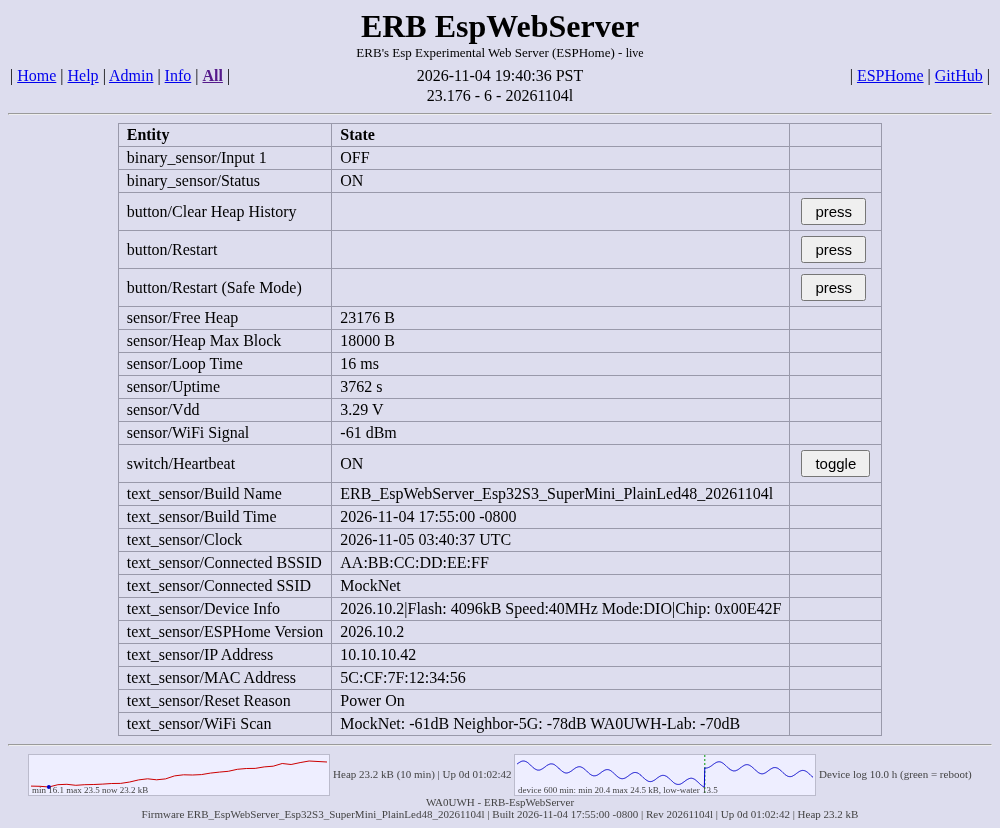
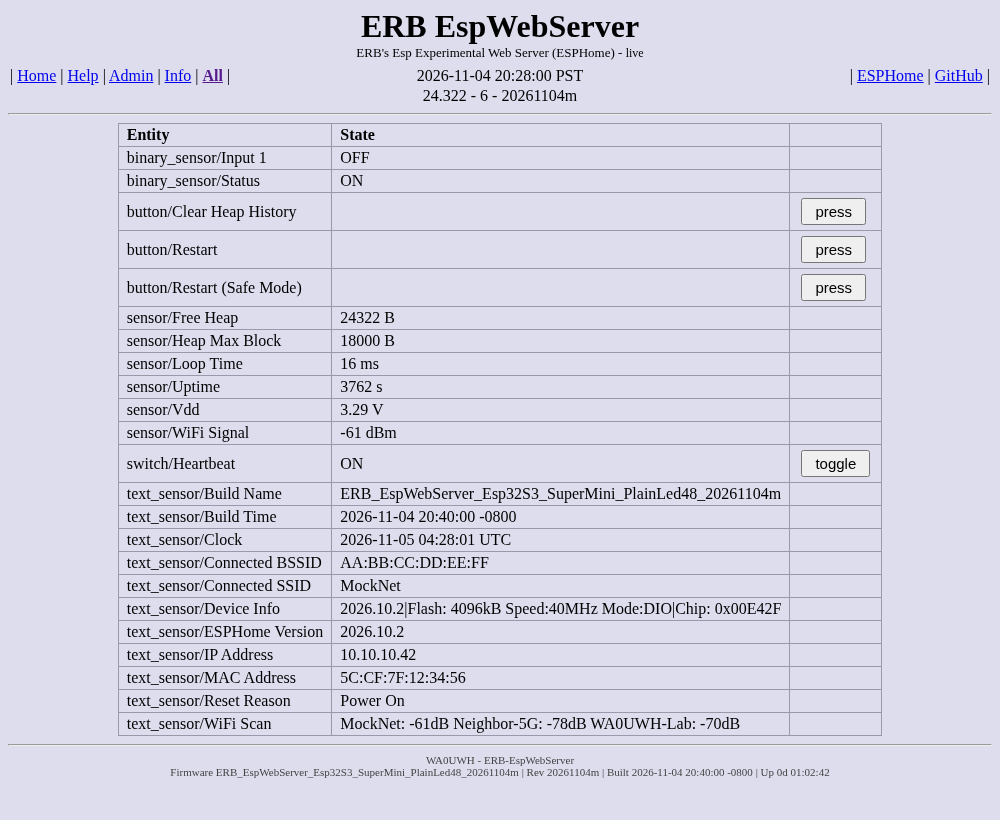
ESPHome Rev 20261104m: fix Build Name/Time on page, trim bottom to one dev line

Changed region(s): [[0.031, 0.0305, 0.992, 1.0], [0.031, 0.9451, 0.124, 0.9756]]

diff --git a/esphome/www/erb_ui.js b/esphome/www/erb_ui.js
@@ -1,11 +1,12 @@
 // Authors: Grok and Eldon R. Brown - WA0UWH
-// Rev: 20261104l
+// Rev: 20261104m
 // ERB_UI - custom multi-page UI for the standalone ESPHome ERB-EspWebServer.
 // Recreates the 2015 Home / Help / Admin / Info pages + Navigator, from flash, no internet.
 // Data: /events SSE ("state" events, id = "<domain>/<Entity Name>"); actions: REST POST.
 (function () {
-  var Hist_Min = 30, Hist = [], Spark = [], LongH = [], S = {}, Page = 'home', Hits = 0;
-  var Rev = '20261104l';
+  var Hist_Min = 30, Hist = [], S = {}, Page = 'home', Hits = 0;
+  var Rev = '20261104m';
+  var Cmt = '';   // esphome comment (= Build_Name) from the /events ping config: fallback if Build Name state is empty
   var css = 'body{background:#ddddee;font-family:Times New Roman,serif;margin:8px;color:#000}' +
     'h1{text-align:center;margin:4px}h1 small{font-size:13px;font-weight:normal;display:block}' +
     '.Nav{width:100%;border-collapse:collapse}.Nav td{padding:2px}.Nav a{color:#00e;cursor:pointer;text-decoration:underline}' +
@@ -17,6 +18,7 @@
 
   function $(i) { return document.getElementById(i); }
   function V(n) { var e = S[n]; return e ? e.state : '--'; }
+  function BN() { var b = V('text_sensor/Build Name'); return (b && b != '--') ? b : Cmt; }   // '' if unknown
   function N(n) { var e = S[n]; return e && typeof e.value === 'number' ? e.value : NaN; }
   function Esc(t) { return String(t).replace(/[&<>"]/g, function (c) { return { '&': '&amp;', '<': '&lt;', '>': '&gt;', '"': '&quot;' }[c]; }); }
   function Post(url) { return fetch(url, { method: 'POST' }); }
@@ -102,7 +104,7 @@
         '<button data-act="button/Restart (Safe Mode)/press" data-q="Reboot into Safe Mode (OTA only)?">Safe Mode</button>' +
         (S['button/Clear Heap History'] ? '<button data-act="button/Clear Heap History/press" data-q="Clear the heap history saved on the device?">Clear heap history</button>' : '') + '</div>' +
         '<pre><b>WiFi Scan</b>\n<span id="v_text_sensor_WiFi_Scan">' + Esc(V('text_sensor/WiFi Scan')) + '</span></pre>' +
-        '<form id="otaF"><b>Firmware update</b> (.ota.bin): <input type="file" id="otaFile" accept=".bin"> <button type="submit">Upload</button><br>Chosen: <b id="otaName">none</b> <span id="otaMsg"></span><br>Running: <b>' + Esc(V('text_sensor/Build Name')) + '</b></form>' +
+        '<form id="otaF"><b>Firmware update</b> (.ota.bin): <input type="file" id="otaFile" accept=".bin"> <button type="submit">Upload</button><br>Chosen: <b id="otaName">none</b> <span id="otaMsg"></span><br>Running: <b>' + Esc(BN() || '--') + '</b></form>' +
         '<p>To change networks: if the device cannot join its WiFi it starts hotspot <b>ERB-EspWebServer-Setup</b>. Join it and a captive portal page lets you pick a new network.</p>';
     },
     help: function () {
@@ -134,14 +136,12 @@
   function Refresh() {
     var fh = N('sensor/Free Heap') / 1000;
     $('navStat').textContent = (isNaN(fh) ? '--' : fh.toFixed(3)) + ' - ' + Hits + ' - ' + Rev;
-    var bn = V('text_sensor/Build Name'); bn = (bn && bn != '--') ? bn : '';
+    var bn = BN();
     if ($('ftBuild')) $('ftBuild').textContent = bn || '--';
     if ($('homeFw')) $('homeFw').textContent = bn ? bn + '.factory.bin / .ota.bin' : '--';
     var bt = V('text_sensor/Build Time'), up = N('sensor/Uptime');
     if ($('ftTime')) $('ftTime').textContent = (bt && bt != '--') ? bt : '--';
     if ($('ftUp')) $('ftUp').textContent = isNaN(up) ? '--' : (function (t) { t = Math.floor(t); function P(n) { return (n < 10 ? '0' : '') + n; } return Math.floor(t / 86400) + 'd ' + P(Math.floor(t / 3600) % 24) + ':' + P(Math.floor(t / 60) % 60) + ':' + P(t % 60); })(up);
-    if ($('ftHeap')) $('ftHeap').textContent = isNaN(fh) ? '--' : fh.toFixed(1) + ' kB';
-    DrawSpark();
     if ($('infoFile')) $('infoFile').textContent = bn ? bn + '.ota.bin' : '--';
     SetInst('gHeap', fh, isNaN(fh) ? '--' : fh.toFixed(1));
     var t = IsS3() ? 'sensor/Chip Temp' : 'sensor/Vdd'; SetInst('gVdd', N(t), V(t));
@@ -161,34 +161,6 @@
       hour: '2-digit', minute: '2-digit', second: '2-digit', timeZoneName: 'short' }).formatToParts(d).forEach(function (p) { o[p.type] = p.value; });
     o.hour = o.hour == '24' ? '00' : o.hour; return o;
   }
-  function DrawSpark() {
-    var g = $('spark'), t = $('spkTxt'); if (!g) return;
-    var up = $('ftUp') ? $('ftUp').textContent : '--';
-    if (Spark.length < 2) { g.innerHTML = ''; t.textContent = 'Heap -- | Up ' + up; return; }
-    var mn = Math.min.apply(null, Spark), mx = Math.max.apply(null, Spark), cur = Spark[Spark.length - 1], r = (mx - mn) || 1, W = 300, H = 40, n = Spark.length, mi = Spark.indexOf(mn);
-    function X(i) { return (i * (W - 4) / (n - 1) + 2).toFixed(1); } function Y(v) { return (H - 10 - (v - mn) / r * (H - 14) + 2).toFixed(1); }
-    g.innerHTML = '<polyline fill="none" stroke="#c00" stroke-width="1" points="' + Spark.map(function (v, i) { return X(i) + ',' + Y(v); }).join(' ') + '"/>' +
-      '<circle cx="' + X(mi) + '" cy="' + Y(mn) + '" r="2" fill="#00c"/>' +
-      '<text x="3" y="38" font-size="9" fill="#444">min ' + mn.toFixed(1) + ' max ' + mx.toFixed(1) + ' now ' + cur.toFixed(1) + ' kB</text>';
-    t.textContent = 'Heap ' + cur.toFixed(1) + ' kB (10 min) | Up ' + up;
-  }
-  function LoadLong() {   // on-device history (NVS ring), GET /heap_history.csv: stamp,free,minfree,boot
-    fetch('/heap_history.csv', { cache: 'no-store' }).then(function (r) { return r.ok ? r.text() : ''; }).then(function (t) {
-      LongH = t.split('\n').slice(1).filter(Boolean).map(function (l) { var a = l.split(','); return [+a[0], a[1] / 1000, a[2] / 1000, +a[3]]; });
-      DrawLong();
-    }).catch(function () { LongH = []; DrawLong(); });
-  }
-  function DrawLong() {
-    var g = $('sparkL'), t = $('spkLTxt'); if (!g) return;
-    if (LongH.length < 2) { g.innerHTML = '<text x="3" y="24" font-size="9" fill="#444">device history: ' + (LongH.length ? '1 sample' : 'none yet') + '</text>'; t.textContent = ''; return; }
-    var v = LongH.map(function (e) { return e[1]; }), mn = Math.min.apply(null, v), mx = Math.max.apply(null, v), r = (mx - mn) || 1, W = 300, H = 40, n = v.length;
-    var lo = Math.min.apply(null, LongH.map(function (e) { return e[2]; }));
-    function X(i) { return (i * (W - 4) / (n - 1) + 2).toFixed(1); } function Y(x) { return (H - 10 - (x - mn) / r * (H - 14) + 2).toFixed(1); }
-    var bm = ''; for (var i = 1; i < n; i++) if (LongH[i][3] != LongH[i - 1][3]) bm += '<line x1="' + X(i) + '" y1="0" x2="' + X(i) + '" y2="' + H + '" stroke="#090" stroke-width="1" stroke-dasharray="2,2"/>';
-    g.innerHTML = bm + '<polyline fill="none" stroke="#00c" stroke-width="1" points="' + v.map(function (x, i) { return X(i) + ',' + Y(x); }).join(' ') + '"/>' +
-      '<text x="3" y="38" font-size="9" fill="#444">device ' + n + ' min: min ' + mn.toFixed(1) + ' max ' + mx.toFixed(1) + ' kB, low-water ' + lo.toFixed(1) + '</text>';
-    t.textContent = 'Device log ' + (n / 60).toFixed(1) + ' h (green = reboot)';
-  }
   function Tick() {
     var p = Pac(new Date()), h = +p.hour, m = +p.minute, sec = +p.second;
     var txt = p.year + '-' + p.month + '-' + p.day + ' ' + p.hour + ':' + p.minute + ':' + p.second + ' ' + p.timeZoneName;
@@ -204,12 +176,12 @@
     if (t.dataset.pg) return Show(t.dataset.pg);
     if (t.dataset.led) return Post('/switch/' + Enc(t.dataset.led) + '/toggle');
     if (t.dataset.q && !confirm(t.dataset.q)) return;
-    Post('/' + Enc(t.dataset.act)).then(function () { if (t.dataset.act.indexOf('Clear Heap') >= 0) setTimeout(LoadLong, 1500); });
+    Post('/' + Enc(t.dataset.act));
   });
   document.addEventListener('submit', function (ev) {
     if (ev.target.id != 'otaF') return; ev.preventDefault();
     var f = $('otaFile').files[0]; if (!f) return;
-    var run = V('text_sensor/Build Name'), want = Board(f.name), have = Board(run);
+    var run = BN() || '--', want = Board(f.name), have = Board(run);
     if (run != '--' && want != have && !confirm('WARNING: board/variant mismatch!\n  File:    ' + want + '\n  Running: ' + have + '\nUpload anyway?')) return;
     if (!confirm('Upload ' + f.name + ' and reboot?')) return;
     var fd = new FormData(); fd.append('update', f, f.name); $('otaMsg').textContent = 'uploading...';
@@ -225,10 +197,10 @@
   function OnState(ev) {
     var d; try { d = JSON.parse(ev.data); } catch (e) { return; }
     var k = d.name_id || d.id; if (!k) return;
+    if (k == 'text_sensor/Build Name' && !d.state && Cmt) d.state = Cmt;   // device sent '' -> use ping comment
     var isNew = !S[k]; S[k] = d;
     if (k == 'sensor/Free Heap' && typeof d.value == 'number') {
       Hist.push([Date.now(), d.value]);
-      Spark.push(d.value / 1000); if (Spark.length > 300) Spark.shift();   // ~10 min rolling, browser memory only
       while (Hist.length && Hist[0][0] < Date.now() - 60 * 60000) Hist.shift();
     }
     if (isNew && (Page == 'all' || Page == 'info' || (Page == 'home' && (k == 'sensor/Chip Temp' || k.indexOf('switch/') == 0)))) Show(Page); else Refresh();
@@ -239,15 +211,16 @@
     es.addEventListener('state_detail_all', OnState);
     es.addEventListener('ping', function (ev) {
       $('Conn').textContent = 'live';
-      try { var c = JSON.parse(ev.data); if (c.title) { document.title = c.title; $('erbTitle').firstChild.textContent = c.title; } } catch (e) {}
+      try { var c = JSON.parse(ev.data); if (c.title) { document.title = c.title; $('erbTitle').firstChild.textContent = c.title; }
+        if (c.comment && /^ERB_/.test(c.comment)) { Cmt = c.comment; var e = S['text_sensor/Build Name']; if (e && !e.state) e.state = Cmt; Refresh(); } } catch (e) {}
     });
     es.onerror = function () { $('Conn').textContent = 'reconnecting...'; };
   }
   function Start() {
     document.body.innerHTML = '<h1 id="erbTitle">ERB EspWebServer<small>ERB\'s Esp Experimental Web Server (ESPHome) - <span id="Conn">connecting</span></small></h1>' +
-      '<div id="erbNav"></div><hr><div id="erbPage"></div><hr><div class="Ctr" style="font-size:11px;color:#444"><svg id="spark" width="300" height="40" style="vertical-align:middle;background:#eef;border:1px solid #bbc"></svg> <span id="spkTxt">--</span> <svg id="sparkL" width="300" height="40" style="vertical-align:middle;background:#eef;border:1px solid #bbc"></svg> <span id="spkLTxt"></span></div><div class="Ctr" style="font-size:11px;color:#444">WA0UWH - ERB-EspWebServer<br>Firmware <span id="ftBuild">--</span> | Built <span id="ftTime">--</span> | Rev ' + Rev + ' | Up <span id="ftUp">--</span> | Heap <span id="ftHeap">--</span></div>';
+      '<div id="erbNav"></div><hr><div id="erbPage"></div><hr><div class="Ctr" style="font-size:11px;color:#444">WA0UWH - ERB-EspWebServer<br>Firmware <span id="ftBuild">--</span> | Rev ' + Rev + ' | Built <span id="ftTime">--</span> | Up <span id="ftUp">--</span></div>';
     S['x/rev'] = { state: Rev };
-    Show('home'); Connect(); LoadLong(); setInterval(LoadLong, 300000); setInterval(Tick, 1000); setInterval(DrawLine, 10000);
+    Show('home'); Connect(); setInterval(Tick, 1000); setInterval(DrawLine, 10000);
   }
   if (document.readyState == 'loading') document.addEventListener('DOMContentLoaded', Start); else Start();
 })();

diff --git a/esphome/mock/Mock_Server.js b/esphome/mock/Mock_Server.js
@@ -1,14 +1,18 @@
 // Authors: Grok and Eldon R. Brown - WA0UWH
-// Rev: 20261104l
+// Rev: 20261104m
 // Mock_Server - fakes the ESPHome v3 web_server (index, /0.js, /events SSE, POST actions)
 // (basic auth guest:grest only when MOCK_AUTH=1) so www/erb_ui.js can be tested in a browser. Usage: node Mock_Server.js [port]
 const http = require('http'), fs = require('fs'), path = require('path');
 const Port = +process.argv[2] || 8099;
 const JS = path.join(__dirname, '..', 'www', 'erb_ui.js');
+// 20261104m: match the real device. Build Name/Time are ''-state unless the firmware publishes them
+// (rev l and older: never published -> MOCK_BUILD_TS=0). ping carries esphome comment = Build_Name (rev m+; MOCK_COMMENT=0 = rev l).
+const BuildName = process.env.MOCK_NO_LEDS ? 'ERB_EspWebServer_Esp32S3_SuperMini_PlainLed48_20261104m' : 'ERB_EspWebServer_Esp8266_NodeMcu_20261104m';
+const Pub = process.env.MOCK_BUILD_TS !== '0', Cmt = process.env.MOCK_COMMENT !== '0' ? BuildName : '';
 const S = {
   'sensor/Free Heap': [23456, '23456 B'], 'sensor/Vdd': [3.29, '3.29 V'], 'sensor/WiFi Signal': [-61, '-61 dBm'],
   'sensor/Uptime': [3725, '3725 s'], 'sensor/Heap Max Block': [18000, '18000 B'], 'sensor/Loop Time': [16, '16 ms'],
-  'text_sensor/ESPHome Version': [null, '2026.10.2'], 'text_sensor/Build Name': [null, process.env.MOCK_NO_LEDS ? 'ERB_EspWebServer_Esp32S3_SuperMini_PlainLed48_20261104l' : 'ERB_EspWebServer_Esp8266_NodeMcu_20261104l'], 'text_sensor/Build Time': [null, '2026-11-04 17:55:00 -0800'], 'text_sensor/Reset Reason': [null, 'Power On'],
+  'text_sensor/ESPHome Version': [null, '2026.10.2'], 'text_sensor/Build Name': [null, Pub ? BuildName : ''], 'text_sensor/Build Time': [null, Pub ? '2026-11-04 20:40:00 -0800' : ''], 'text_sensor/Reset Reason': [null, 'Power On'],
   'text_sensor/Device Info': [null, '2026.10.2|Flash: 4096kB Speed:40MHz Mode:DIO|Chip: 0x00E42F'],
   'text_sensor/IP Address': [null, '10.10.10.42'], 'text_sensor/Connected SSID': [null, 'MockNet'],
   'text_sensor/Connected BSSID': [null, 'AA:BB:CC:DD:EE:FF'], 'text_sensor/MAC Address': [null, '5C:CF:7F:12:34:56'],
@@ -48,7 +52,7 @@ http.createServer((q, r) => {
   
   if (u === '/events') {
     r.writeHead(200, { 'Content-Type': 'text/event-stream', 'Cache-Control': 'no-cache' });
-    r.write(`event: ping\ndata: ${JSON.stringify({ title: 'ERB EspWebServer' })}\n\n`);
+    r.write(`event: ping\ndata: ${JSON.stringify({ title: 'ERB EspWebServer', comment: Cmt })}\n\n`);
     Object.keys(S).forEach(k => r.write(Msg(k).replace('event: state', 'event: state_detail_all')));
     Clients.add(r); q.on('close', () => Clients.delete(r)); return;
   }

diff --git a/esphome/mock/Shoot_Tabs.js b/esphome/mock/Shoot_Tabs.js
@@ -1,5 +1,5 @@
 // Authors: Grok and Eldon R. Brown - WA0UWH
-// Rev: 20261104l
+// Rev: 20261104m
 // Shoot_Tabs - headless screenshots of each ERB UI tab against Mock_Server.js.
 const puppeteer = require('/workspace/repos/grok-voice-reader-extension/chrome-extension/node_modules/puppeteer-core');
 const Out = require('path').join(__dirname, '..', 'screens') + (process.env.MOCK_NO_LEDS ? '/PlainLed48' : '');
@@ -13,17 +13,20 @@ require('fs').mkdirSync(Out, { recursive: true });
   await p.evaluate(() => { document.getElementById('hMin').value = '5'; document.getElementById('hMin').dispatchEvent(new Event('change', { bubbles: true })); });
   if (await p.$('[data-led="Green LED"]')) await p.click('[data-led="Green LED"]');
   console.log('LED BUTTONS', JSON.stringify(await p.$$eval('[data-led]', b => b.map(x => x.dataset.led)))); await new Promise(r => setTimeout(r, 800));
+  console.log('HOMEFW', await p.$eval('#homeFw', e => e.textContent), '| FOOT', await p.$eval('#ftBuild', e => e.parentNode.textContent), '| SVGS', await p.$$eval('svg', a => a.map(x => x.id).join(',')));
   await p.screenshot({ path: Out + '/1_Home.png', fullPage: true });
   let n = 2;
   for (const t of ['info', 'admin', 'help', 'all']) {
     await p.click(`[data-pg="${t}"]`); await new Promise(r => setTimeout(r, 700));
+    if (t == 'info') console.log('INFO', await p.$eval('#infoFile', e => e.textContent), '|', (await p.$eval('#erbPage', e => e.innerText)).split('\n').filter(l => /Build/.test(l)).join(' / '));
+    if (t == 'admin') console.log('RUNNING', await p.$eval('#otaF', e => e.innerText.split('Running:')[1]));
     await p.screenshot({ path: `${Out}/${n++}_${t[0].toUpperCase() + t.slice(1)}.png`, fullPage: true });
   }
   await p.click(`[data-pg="admin"]`); await p.click('[data-act="button/Restart/press"]');
   await p.click(`[data-pg="home"]`); await p.click('[data-led="Heartbeat"]'); await new Promise(r => setTimeout(r, 500));
   await p.click(`[data-pg="admin"]`);
   const Dlg = []; p.on('dialog', d => Dlg.push(d.message().split('\n')[0]));
-  const Fw = '/tmp/ERB_EspWebServer_Esp32S3_SuperMini_PlainLed48_20261104l.ota.bin'; require('fs').writeFileSync(Fw, Buffer.alloc(4096, 7));
+  const Fw = '/tmp/ERB_EspWebServer_Esp32S3_SuperMini_PlainLed48_20261104m.ota.bin'; require('fs').writeFileSync(Fw, Buffer.alloc(4096, 7));
   await (await p.$('#otaFile')).uploadFile(Fw);
   console.log('CHOSEN', await p.$eval('#otaName', e => e.textContent));
   await p.click('#otaF button'); await new Promise(r => setTimeout(r, 1000));

diff --git a/esphome/NOTES.md b/esphome/NOTES.md
@@ -118,3 +118,10 @@
 - GET http://erb-espwebserver-s3.local/heap_history.csv -> "stamp,free,minfree,boot" oldest first, chunked (no big RAM buffer).
 - UI: second 300x40 sparkline "device" long trend (blue, green dashed = reboot, low-water text), fetched on load + every 5 min; Admin "Clear heap history" (confirm) -> button/Clear Heap History/press.
 - Mock serves fake 600-min, 2-boot history. Log flash/Build_20261104l.log: 0 warnings. Bins: _20261104l.factory.bin 935792 B, .ota.bin 870256 B.
+
+## 2026-11-04 8:31 PM PST - Rev 20261104m: Build Name/Time fixed on page, bottom trimmed to one dev line
+- Root cause of 'Firmware: --' / 'Built --' on rev l hardware: Build Name/Time template text_sensors had update_interval: never. TemplateTextSensor only publishes in update() (template_text_sensor.cpp), never in setup(); 'never' = SCHEDULER_DONT_RUN so update() never ran. web_server on_client_connect_ sends ping (get_config_json) then iterates all entities with text_sensor_json_(obj, obj->state, DETAIL_ALL) -> state "" -> page showed '--'. Mock hid it by injecting values.
+- Fix: esphome on_boot (priority -100) publish_state for both; update_interval 60s; esphome comment: "${Build_Name}" (get_config_json sends "comment" in the ping) -> erb_ui.js BN() falls back to it if Build Name state is empty (Home line, footer, Info, Admin Running, upload mismatch check).
+- Removed both bottom sparklines (browser + device long trend) and their labels; footer now: "WA0UWH - ERB-EspWebServer" / "Firmware <Build Name> | Rev <Rev> | Built <Build Time> | Up d hh:mm:ss" (Heap dropped). Top numeric, gauges, center graph unchanged. erb_heap_log + GET /heap_history.csv + Admin "Clear heap history" KEPT.
+- Mock_Server: Build Name/Time now '' unless MOCK_BUILD_TS!=0; ping comment unless MOCK_COMMENT=0. Checked 3 modes: 0/0 reproduces rev l '--'; 0/1 fallback shows name; 1/1 all shown. No JS errors. screens/PlainLed48/ refreshed (1/1 mode).
+- Log flash/Build_20261104m.log: 0 warnings. RAM 108,067 B (31.6%), Flash 869,655 B (47.4%). Bins (600): _20261104m.factory.bin 935312 B, .ota.bin 869776 B. First 64 KB == l, app == ota. Credentials baked in. NodeMCU + S3 base compile OK (no bins). PlainLed48 compiled last.
